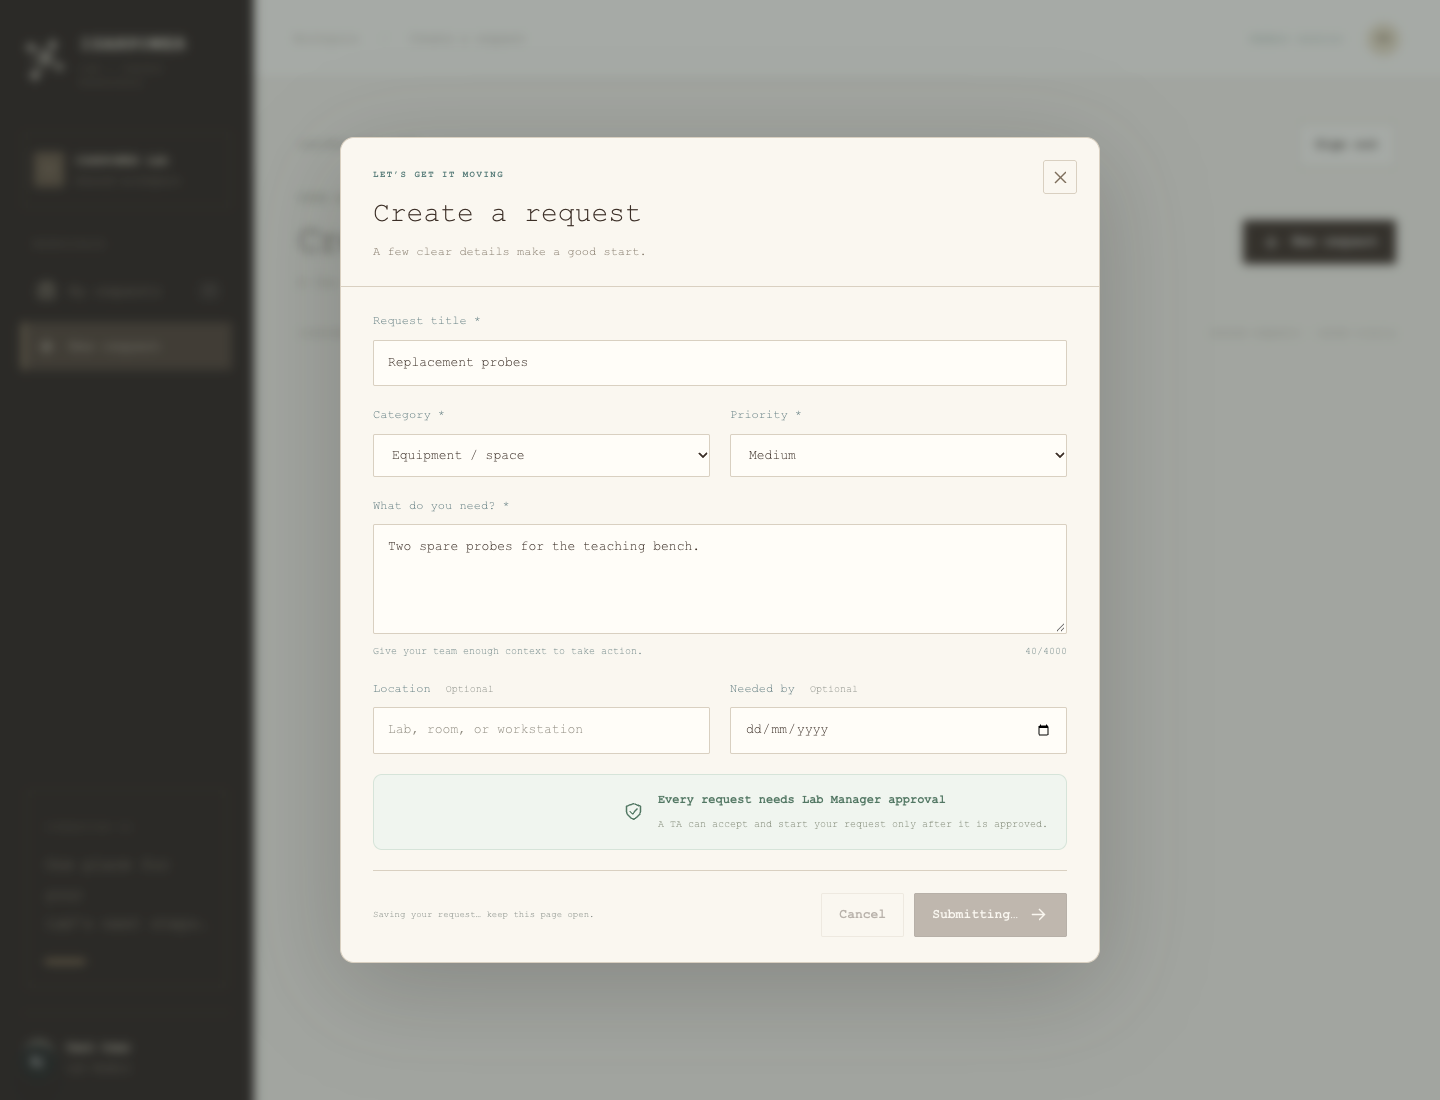
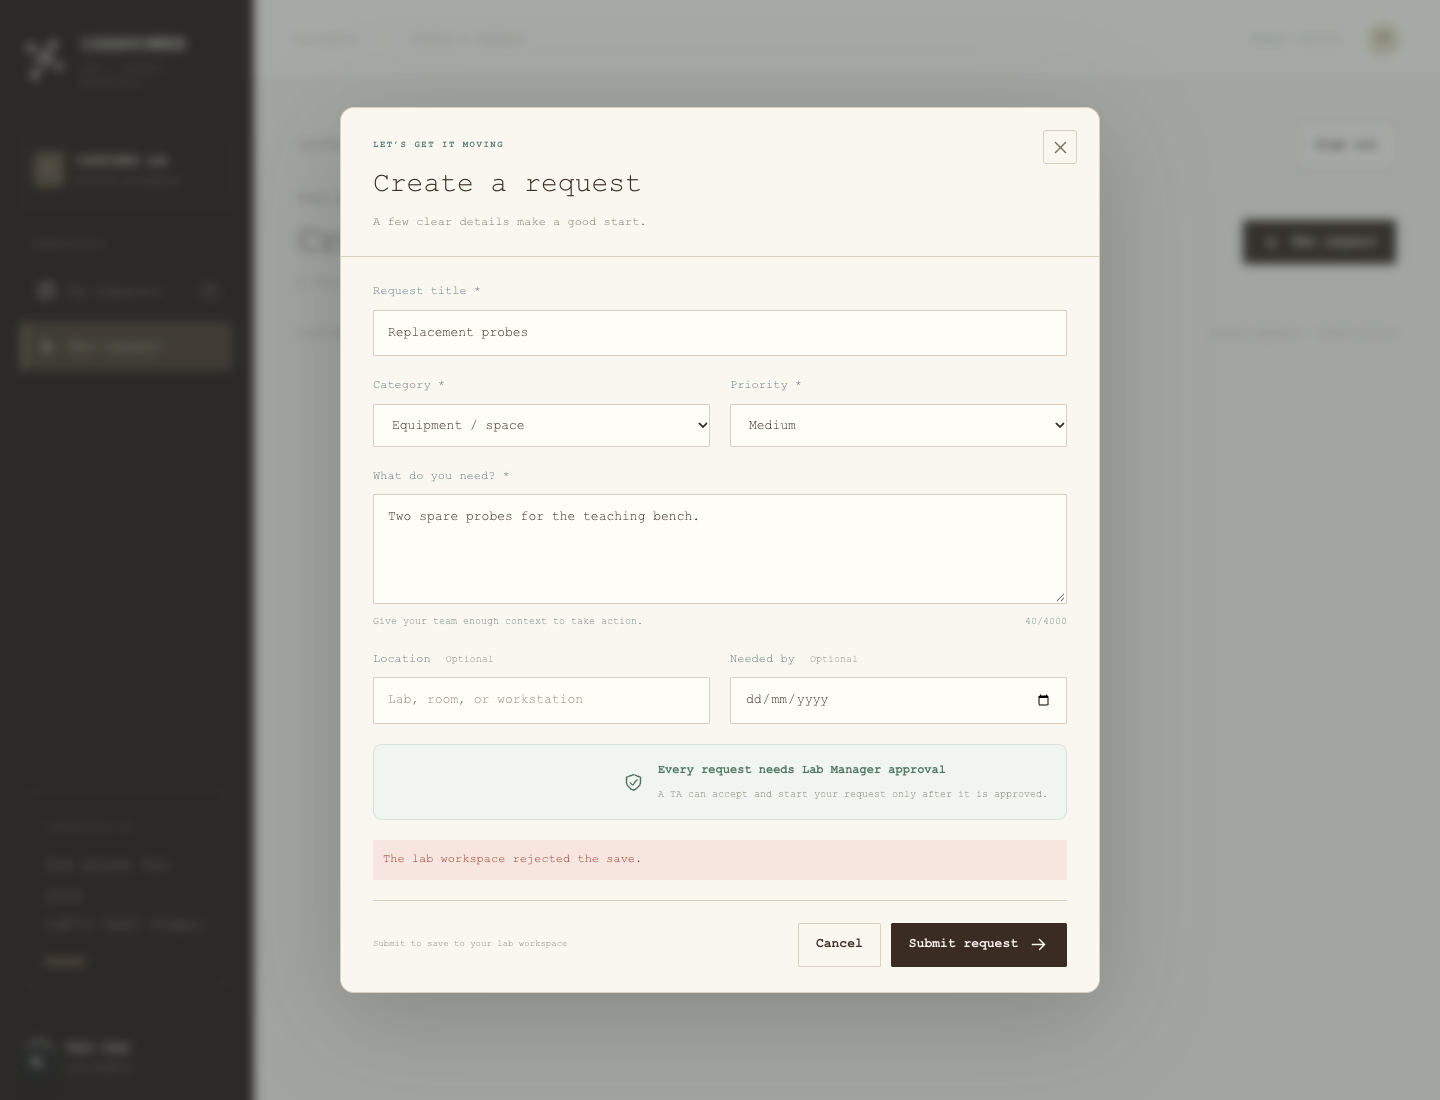
test: verify integrated workflow UX browser cases

diff --git a/docs/development/INTEGRATION-QA-2026-10-25.md b/docs/development/INTEGRATION-QA-2026-10-25.md
@@ -13,6 +13,7 @@ Scope: CI checks and the Visitor public-message feature. This is a test record, 
 | API CI job | Isolated `_test` database, API lint/typecheck/tests/build | All steps passed in GitHub Actions run 40133102095 | Pass | https://github.com/Inthat6810545999/ISANPOWER888/actions/runs/40133102095 |
 | Visitor message, tracking and core workflow API security | Only eligible Manager edits; wrong roles denied; public response has limited fields; approval and rejection gates work | 40 API cases pass across message, tracking and request routes in a uniquely named `_test` database | Pass locally | `npm --prefix apps/web run test:public-message-live` runs all three suites before the browser flow |
 | Manager to Visitor live flow | Manager save; fresh Visitor lookup; clear and refresh | Live API + browser test passes on Node 24 | Pass locally | `apps/web/scripts/public-message.live.test.mjs`; isolated DB created and dropped; existing evidence screenshots refreshed |
+| Member/Visitor/TA workflow UX | Loading, failure, retry and duplicate actions are handled; rejection and pending work read separately | Person 3's browser fixture test passes after PR #21 was merged into this QA branch | Pass locally | `npm --prefix apps/web run test:workflow-ux-browser`; screenshots in `docs/development/evidence/workflow-ux/` |
 
 ## Integration checklist after teammate branches are merged
 
@@ -29,8 +30,8 @@ Record the tested commit, test database, browser profiles, expected and actual r
 | Tracking privacy | No internal reason, editor identity, contact data or session token in public response | Pass - focused API and live browser tests |
 | Member -> Manager -> TA approval flow | Submit, approve, self-claim, start and close succeed | Pass - isolated API workflow test; browser UI smoke remains to be done |
 | Rejection flow | Rejected request cannot be claimed, started or closed | Pass - isolated API workflow test; browser UI smoke remains to be done |
-| UX loading/error/double-submit | Input retained on failure; buttons disabled during request; success only after API confirmation | Pending person 3 merge/review |
+| UX loading/error/double-submit | Input retained on failure; buttons disabled during request; success only after API confirmation | Pass - browser fixture test after PR #21 merge |
 
 The backend and frontend feature branches are integrated in the tested checkout. The focused API cases belong to the backend owner; this is an independent integration run of those tests and the live browser flow. A macOS cleanup defect in the live test was fixed in `apps/web/scripts/public-message.live.test.mjs`; the earlier interrupted run left an isolated test database, which was removed. The passing rerun created and dropped a new isolated database.
 
-Before closing QA: complete the original Member/Manager/TA browser UI smoke paths and review person 3's UX changes after they are integrated. Replace the remaining Pending cell with Pass/Fail plus evidence. Do not use the development or demo database for API tests; the test suite deletes records and requires a database name ending in `_test`.
+Before closing QA: complete the original Member/Manager/TA browser UI smoke paths with a running database and record evidence. Do not use the development or demo database for API tests; the test suite deletes records and requires a database name ending in `_test`.
